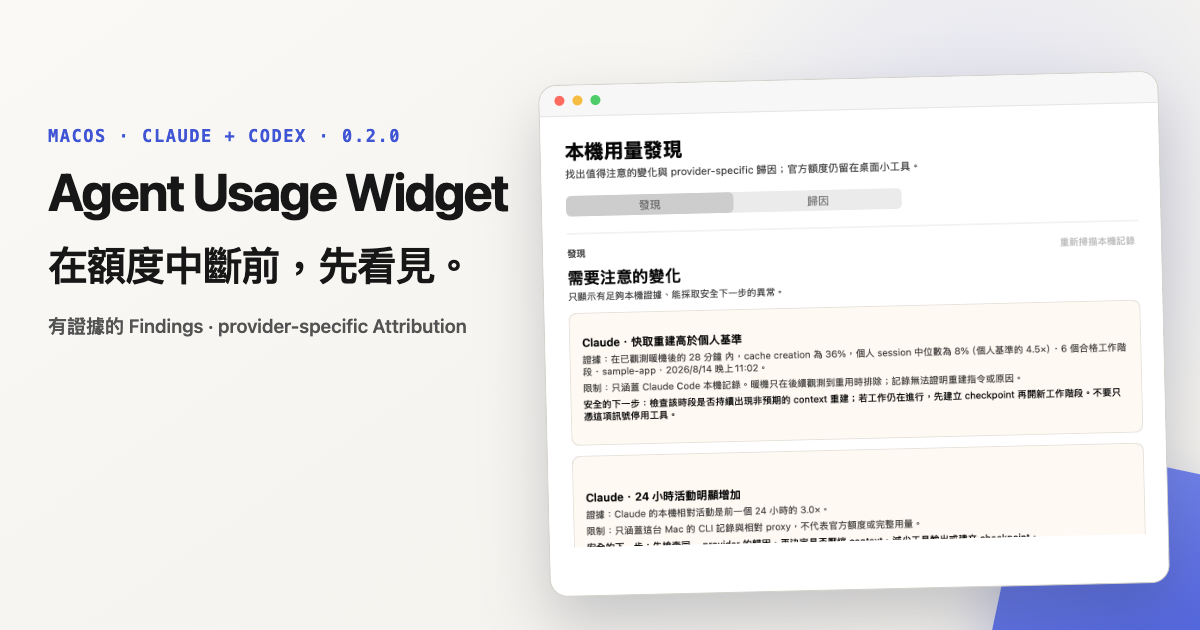
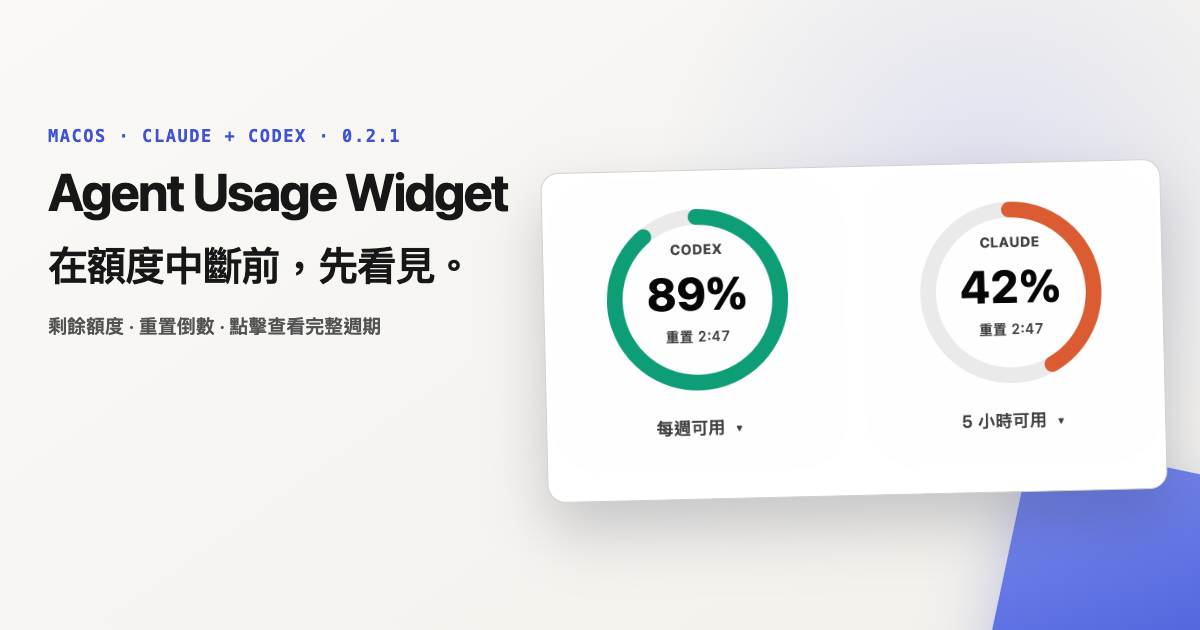
site: publish 0.2.1

diff --git a/index.html b/index.html
@@ -4,9 +4,9 @@
 <meta charset="utf-8">
 <title>Agent Usage Widget — 在額度中斷前先看見</title>
 <meta name="viewport" content="width=device-width, initial-scale=1">
-<meta name="description" content="A native macOS widget for seeing remaining Claude and Codex quota, reset timing, and observable local usage before an interruption.">
+<meta name="description" content="A native macOS widget for seeing remaining Claude and Codex quota and reset timing before an interruption.">
 <meta property="og:title" content="Agent Usage Widget">
-<meta property="og:description" content="See remaining Claude and Codex quota, reset timing, and observable local usage before an interruption.">
+<meta property="og:description" content="See remaining Claude and Codex quota and reset timing before an interruption.">
 <meta property="og:type" content="website">
 <meta property="og:image" content="https://estellacoding.github.io/agent-usage-widget-releases/assets/og.png">
 <meta property="og:image:width" content="1200">
@@ -275,6 +275,12 @@
   }
   .window-bar i { width: 0.62rem; height: 0.62rem; border-radius: 50%; background: #d8d8d8; }
   .window-shell img { width: 100%; height: auto; }
+  .quota-card-shell {
+    overflow: visible;
+    border: 0;
+    background: transparent;
+    box-shadow: none;
+  }
   .shot-caption { margin-top: 0.85rem; color: var(--quiet); font-size: 0.76rem; text-align: center; }
 
   .trust-strip { border-block: 1px solid var(--line); background: var(--surface); }
@@ -411,6 +417,7 @@
     .trust-item:nth-child(2) { border-right: 0; }
     .trust-item:nth-child(-n+2) { border-bottom: 1px solid var(--line); }
     .window-shell { border-radius: var(--radius-sm); }
+    .quota-card-shell { border-radius: 0; }
     .window-bar { height: 1.7rem; }
   }
 
@@ -457,12 +464,12 @@
           <span lang="en">See the limit <strong>before it interrupts you.</strong></span>
         </h1>
         <p class="hero-lede">
-          <span lang="zh-Hant">把 Claude 與 Codex 的剩餘額度、重置時間，以及有證據的本機異常與歸因，放在安靜的 macOS 原生工具裡。</span>
-          <span lang="en">Keep remaining Claude and Codex quota, reset timing, and evidence-backed local findings in one quiet native macOS utility.</span>
+          <span lang="zh-Hant">把 Claude 與 Codex 的剩餘額度與重置時間，放在安靜、可點擊的 macOS 原生卡片裡。</span>
+          <span lang="en">Keep remaining Claude and Codex quota and reset timing in quiet, clickable native macOS cards.</span>
         </p>
         <div class="actions">
-          <a class="button button--primary" href="https://github.com/estellacoding/agent-usage-widget-releases/releases/latest/download/AgentUsageWidget-0.2.0-arm64.dmg">
-            <span lang="zh-Hant">下載 0.2.0 .dmg</span><span lang="en">Download 0.2.0 .dmg</span>
+          <a class="button button--primary" href="https://github.com/estellacoding/agent-usage-widget-releases/releases/latest/download/AgentUsageWidget-0.2.1-arm64.dmg">
+            <span lang="zh-Hant">下載 0.2.1 .dmg</span><span lang="en">Download 0.2.1 .dmg</span>
           </a>
           <a class="button" href="#privacy"><span lang="zh-Hant">了解資料處理</span><span lang="en">How data is handled</span></a>
         </div>
@@ -473,10 +480,9 @@
       </div>
 
       <figure class="hero-shot">
-        <div class="window-shell">
-          <div class="window-bar" aria-hidden="true"><i></i><i></i><i></i></div>
-          <img lang="zh-Hant" src="assets/detail-findings-zh.png" width="1440" height="1040" alt="Agent Usage Widget 本機用量發現，顯示高於個人基準的快取重建範例">
-          <img lang="en" src="assets/detail-findings-en.png" width="1440" height="1040" alt="Agent Usage Widget local usage findings showing a sample cache rebuild anomaly">
+        <div class="window-shell quota-card-shell">
+          <img lang="zh-Hant" src="assets/quota-cards-zh.png" width="712" height="352" alt="Agent Usage Widget 的 Codex 與 Claude 剩餘額度卡片">
+          <img lang="en" src="assets/quota-cards-en.png" width="712" height="352" alt="Agent Usage Widget Codex and Claude remaining-quota cards">
         </div>
         <figcaption class="shot-caption">
           <span lang="zh-Hant">正式 AppKit 畫面 · 固定範例資料，不含私人紀錄</span>
@@ -500,29 +506,29 @@
       <div class="preview-head">
         <div class="stack reading">
           <p class="eyebrow"><span lang="zh-Hant">真實產品畫面</span><span lang="en">The real product</span></p>
-          <h2><span lang="zh-Hant">一眼看額度，需要時理解本機活動。</span><span lang="en">Glance at quota. Understand local activity when needed.</span></h2>
+          <h2><span lang="zh-Hant">一眼看額度，點一下看完整週期。</span><span lang="en">Glance at quota. Click for every window.</span></h2>
           <p class="section-lede">
-            <span lang="zh-Hant">桌面卡只保留剩餘量、倒數與新鮮度；Findings 只提出有足夠證據的異常，Attribution 再把 Claude 與 Codex 分開解釋。</span>
-            <span lang="en">The desktop glance stays focused on remaining quota, countdowns, and freshness. Findings surface only evidence-backed anomalies; Attribution explains Claude and Codex separately.</span>
+            <span lang="zh-Hant">桌面卡只保留剩餘量與重置倒數；點擊任一卡片，即可在卡片下方查看 5 小時、每週及模型限定週額度。</span>
+            <span lang="en">Desktop cards keep remaining quota and reset countdowns in view. Click either card to open 5-hour, weekly, and model-scoped weekly details directly below.</span>
           </p>
         </div>
         <div class="preview-tabs" role="tablist" aria-label="Product screenshots">
-          <button id="preview-findings" type="button" role="tab" data-preview="findings" aria-controls="product-preview" aria-selected="true" tabindex="0"><span lang="zh-Hant">發現</span><span lang="en">Findings</span></button>
-          <button id="preview-attribution" type="button" role="tab" data-preview="attribution" aria-controls="product-preview" aria-selected="false" tabindex="-1"><span lang="zh-Hant">歸因</span><span lang="en">Attribution</span></button>
+          <button id="preview-cards" type="button" role="tab" data-preview="cards" aria-controls="product-preview" aria-selected="true" tabindex="0"><span lang="zh-Hant">額度卡</span><span lang="en">Quota cards</span></button>
+          <button id="preview-details" type="button" role="tab" data-preview="details" aria-controls="product-preview" aria-selected="false" tabindex="-1"><span lang="zh-Hant">詳細額度</span><span lang="en">Quota details</span></button>
         </div>
       </div>
 
-      <div class="product-stage" id="product-preview" role="tabpanel" aria-labelledby="preview-findings" aria-live="polite">
+      <div class="product-stage" id="product-preview" role="tabpanel" aria-labelledby="preview-cards" aria-live="polite">
         <div class="window-shell">
           <div class="window-bar" aria-hidden="true"><i></i><i></i><i></i></div>
-          <img lang="zh-Hant" data-preview-shot="findings" src="assets/detail-findings-zh.png" width="1440" height="1040" alt="繁中本機用量發現，使用固定範例資料">
-          <img lang="zh-Hant" data-preview-shot="attribution" src="assets/detail-attribution-zh.png" width="1440" height="1040" alt="繁中 Claude 與 Codex 分區活動歸因，使用固定範例資料" hidden>
-          <img lang="en" data-preview-shot="findings" src="assets/detail-findings-en.png" width="1440" height="1040" alt="English local usage findings using fixed sample data">
-          <img lang="en" data-preview-shot="attribution" src="assets/detail-attribution-en.png" width="1440" height="1040" alt="English provider-specific Claude and Codex attribution using fixed sample data" hidden>
+          <img lang="zh-Hant" data-preview-shot="cards" src="assets/quota-cards-zh.png" width="712" height="352" alt="繁中 Codex 與 Claude 剩餘額度卡片，使用固定範例資料">
+          <img lang="zh-Hant" data-preview-shot="details" src="assets/quota-details-zh.png" width="660" height="560" alt="繁中 Claude 詳細額度，包含每週 Fable 額度" hidden>
+          <img lang="en" data-preview-shot="cards" src="assets/quota-cards-en.png" width="712" height="352" alt="English Codex and Claude remaining-quota cards using fixed sample data">
+          <img lang="en" data-preview-shot="details" src="assets/quota-details-en.png" width="660" height="560" alt="English Claude quota details including the Fable weekly limit" hidden>
         </div>
         <p class="product-caption">
-          <span lang="zh-Hant">所有畫面均由正式 <span class="mono">DetailWindowController</span> 與固定合成 report 產生。</span>
-          <span lang="en">Every screen is rendered by the production <span class="mono">DetailWindowController</span> with a fixed synthetic report.</span>
+          <span lang="zh-Hant">所有畫面均由正式 AppKit 額度元件與固定合成資料產生，不含私人紀錄。</span>
+          <span lang="en">Every screen is rendered by the production AppKit quota views with fixed synthetic data and no private records.</span>
         </p>
       </div>
 
@@ -532,12 +538,12 @@
           <div class="stack stack--tight"><h3><span lang="zh-Hant">先知道還剩多少</span><span lang="en">Know what remains</span></h3><p><span lang="zh-Hant">Claude 與 Codex 各視窗都使用同一語意：大數字與進度軌代表剩餘，不把「無限制」畫成錯誤。</span><span lang="en">Every Claude and Codex window uses one meaning: the number and track show what remains, and no-limit plans never look like failures.</span></p></div>
         </article>
         <article class="value-card">
-          <span class="value-number">02 / FINDINGS</span>
-          <div class="stack stack--tight"><h3><span lang="zh-Hant">只提出值得注意的變化</span><span lang="en">Surface changes worth attention</span></h3><p><span lang="zh-Hant">24 小時變化、重工作階段、快取重建、subagent 與工具結果只有在證據門檻成立時才出現，並附限制與安全下一步。</span><span lang="en">24-hour changes, heavy sessions, cache rebuilds, subagents, and tool results appear only when evidence thresholds are met—with limitations and a safe next step.</span></p></div>
+          <span class="value-number">02 / DETAILS</span>
+          <div class="stack stack--tight"><h3><span lang="zh-Hant">點擊後就在卡片下方展開</span><span lang="en">Details open below the cards</span></h3><p><span lang="zh-Hant">不用離開桌面位置即可查看 5 小時、每週與 Claude 模型限定週額度，標題列也保留標準 macOS 間距。</span><span lang="en">See 5-hour, weekly, and Claude model-scoped weekly quota without losing context, with standard macOS title-bar spacing.</span></p></div>
         </article>
         <article class="value-card">
-          <span class="value-number">03 / ATTRIBUTION</span>
-          <div class="stack stack--tight"><h3><span lang="zh-Hant">每個 provider 使用自己的分母</span><span lang="en">Keep each provider in its own denominator</span></h3><p><span lang="zh-Hant">Claude 與 Codex 的專案、模型與工作階段分開計算；Codex 沒有同等工具或 subagent 欄位時保持 unavailable，不補成 0%。</span><span lang="en">Claude and Codex project, model, and session shares stay separate. Missing Codex tool or subagent fields remain unavailable instead of becoming 0%.</span></p></div>
+          <span class="value-number">03 / WINDOWS</span>
+          <div class="stack stack--tight"><h3><span lang="zh-Hant">每個數字都說清楚週期</span><span lang="en">Every number names its window</span></h3><p><span lang="zh-Hant">Claude 的 Fable 額度明確標示為每週；Codex 沒有 5 小時上限時，主卡直接改顯示每週額度。</span><span lang="en">Claude identifies Fable as weekly. When Codex has no 5-hour limit, its main card shows weekly quota instead.</span></p></div>
         </article>
       </div>
     </div>
@@ -547,12 +553,12 @@
     <div class="wrap">
       <div class="stack reading">
         <p class="eyebrow"><span lang="zh-Hant">如何運作</span><span lang="en">How it works</span></p>
-        <h2><span lang="zh-Hant">登入材料留在 native bridge；分析留在本機。</span><span lang="en">Credentials stay in the native bridge. Analysis stays local.</span></h2>
-        <p class="section-lede"><span lang="zh-Hant">官方額度與本機活動分析是兩條分開的資料路徑，不把 token、cookie 或 organization ID 交給分析引擎。</span><span lang="en">Official quota and local activity analysis use separate data paths. Tokens, cookies, and organization IDs never go to the analysis engine.</span></p>
+        <h2><span lang="zh-Hant">登入材料只留在 native bridge。</span><span lang="en">Credentials stay in the native bridge.</span></h2>
+        <p class="section-lede"><span lang="zh-Hant">App 只把通過 schema 驗證的額度百分比與重置時間交給畫面，不把 token、cookie 或 organization ID 寫入額度快取。</span><span lang="en">The app passes only schema-validated quota percentages and reset timing to the UI; tokens, cookies, and organization IDs are never written to the quota cache.</span></p>
       </div>
       <div class="flow">
         <article class="flow-step"><span class="mono">01 · QUOTA</span><h3><span lang="zh-Hant">向服務自己的端點查詢</span><span lang="en">Ask each service directly</span></h3><p><span lang="zh-Hant">Swift bridge 使用既有 Claude Desktop／Codex 登入，只把通過 schema 驗證的百分比與時間交給 UI。</span><span lang="en">The Swift bridge uses existing Claude Desktop and Codex sign-ins, passing only schema-validated percentages and timing to the UI.</span></p></article>
-        <article class="flow-step"><span class="mono">02 · LOCAL</span><h3><span lang="zh-Hant">讀取本機 CLI 記錄</span><span lang="en">Read local CLI records</span></h3><p><span lang="zh-Hant">分析只讀 Claude Code 與 Codex CLI 記錄；Desktop 與 Web 用量不包含在結果裡。</span><span lang="en">Analysis reads Claude Code and Codex CLI records only. Desktop and web usage are excluded from the result.</span></p></article>
+        <article class="flow-step"><span class="mono">02 · NORMALIZE</span><h3><span lang="zh-Hant">只保留額度需要的欄位</span><span lang="en">Keep only quota fields</span></h3><p><span lang="zh-Hant">Native bridge 將回應縮減為剩餘百分比、重置時間、模型標籤與狀態，不把登入材料交給介面。</span><span lang="en">The native bridge reduces responses to remaining percentage, reset timing, model label, and status without exposing credentials to the UI.</span></p></article>
         <article class="flow-step"><span class="mono">03 · STATE</span><h3><span lang="zh-Hant">把不確定性寫在畫面上</span><span lang="en">Show uncertainty in the UI</span></h3><p><span lang="zh-Hant">Live、Cached、Stale、Unavailable 與資料年齡都有文字；服務自己的頁面始終是最終依據。</span><span lang="en">Live, Cached, Stale, Unavailable, and data age are always textual. Provider pages remain authoritative.</span></p></article>
       </div>
     </div>
@@ -566,7 +572,7 @@
         <p class="section-lede"><span lang="zh-Hant">Live 額度仍會連到 Claude／OpenAI 自己的 usage endpoint，因此這不是「完全離線」；安全邊界在於登入材料不離開 native bridge。</span><span lang="en">Live quota still connects to Claude and OpenAI usage endpoints, so this is not fully offline. The security boundary is that login material never leaves the native bridge.</span></p>
       </div>
       <div class="privacy-grid">
-        <article class="privacy-card"><h3><span lang="zh-Hant">會讀取與保存</span><span lang="en">Read and retained</span></h3><ul class="privacy-list"><li><span lang="zh-Hant">記憶體中的既有登入材料，用於各服務自己的 usage endpoint</span><span lang="en">Existing login material in memory, for each service's own usage endpoint</span></li><li><span lang="zh-Hant">本機 Claude Code／Codex CLI 記錄，用於 Findings 與 provider-specific Attribution</span><span lang="en">Local Claude Code and Codex CLI records for Findings and provider-specific Attribution</span></li><li><span lang="zh-Hant">快取的非敏感百分比、狀態與時間戳</span><span lang="en">Cached non-sensitive percentages, status, and timestamps</span></li></ul></article>
+        <article class="privacy-card"><h3><span lang="zh-Hant">會讀取與保存</span><span lang="en">Read and retained</span></h3><ul class="privacy-list"><li><span lang="zh-Hant">記憶體中的既有登入材料，用於各服務自己的 usage endpoint</span><span lang="en">Existing login material in memory, for each service's own usage endpoint</span></li><li><span lang="zh-Hant">各服務回傳的額度百分比、重置時間與模型標籤</span><span lang="en">Quota percentages, reset timing, and model labels returned by each service</span></li><li><span lang="zh-Hant">快取的非敏感百分比、狀態與時間戳</span><span lang="en">Cached non-sensitive percentages, status, and timestamps</span></li></ul></article>
         <article class="privacy-card privacy-card--never"><h3><span lang="zh-Hant">絕不交給產品或第三方</span><span lang="en">Never sent to the product or third parties</span></h3><ul class="privacy-list"><li><span lang="zh-Hant">Claude cookie、Keychain secret、organization ID</span><span lang="en">Claude cookies, Keychain secrets, or organization IDs</span></li><li><span lang="zh-Hant">Codex OAuth token 或 account ID</span><span lang="en">Codex OAuth tokens or account IDs</span></li><li><span lang="zh-Hant">本機 session 內容、專案名稱或私人 screenshot</span><span lang="en">Local session content, project names, or private screenshots</span></li></ul></article>
       </div>
       <p class="privacy-note"><span lang="zh-Hant">Claude Keychain 存取可以獨立停用；Codex、Widget 與開機啟動控制仍可使用。</span><span lang="en">Claude Keychain access can be disabled independently while Codex, the Widget, and login-item controls keep working.</span></p>
@@ -578,11 +584,11 @@
       <div class="stack reading">
         <p class="eyebrow"><span lang="zh-Hant">安裝</span><span lang="en">Install</span></p>
         <h2><span lang="zh-Hant">選擇拖曳安裝，或一次完成設定。</span><span lang="en">Drag it in, or complete setup in one pass.</span></h2>
-        <p class="section-lede"><span lang="zh-Hant">兩個安裝檔都是 0.2.0 arm64，內含經審查的 Node runtime；你的 Mac 不需要先裝 Node 或 Xcode。</span><span lang="en">Both 0.2.0 arm64 installers carry the reviewed Node runtime. Your Mac does not need Node or Xcode first.</span></p>
+        <p class="section-lede"><span lang="zh-Hant">兩個安裝檔都是 0.2.1 arm64，內含經審查的 Node runtime；你的 Mac 不需要先裝 Node 或 Xcode。</span><span lang="en">Both 0.2.1 arm64 installers carry the reviewed Node runtime. Your Mac does not need Node or Xcode first.</span></p>
       </div>
       <div class="install-grid">
-        <article class="installer installer--primary"><div class="stack stack--tight"><span class="installer-meta">DMG · 0.2.0 · ARM64</span><h3><span lang="zh-Hant">拖到 Applications</span><span lang="en">Drag to Applications</span></h3><p><span lang="zh-Hant">適合想自己決定何時啟用開機啟動與安裝 Agent Skill 的使用者。</span><span lang="en">Best when you want to choose when to enable launch at login and install the Agent Skill.</span></p></div><a class="button button--primary" href="https://github.com/estellacoding/agent-usage-widget-releases/releases/latest/download/AgentUsageWidget-0.2.0-arm64.dmg"><span lang="zh-Hant">下載 .dmg</span><span lang="en">Download .dmg</span></a></article>
-        <article class="installer"><div class="stack stack--tight"><span class="installer-meta">PKG · 0.2.0 · ARM64</span><h3><span lang="zh-Hant">一併完成本機設定</span><span lang="en">Complete local setup</span></h3><p><span lang="zh-Hant">安裝 App，並設定開機啟動與 Agent Skill；所有內容仍可完整移除。</span><span lang="en">Installs the app, configures launch at login, and adds the Agent Skill. Everything remains fully removable.</span></p></div><a class="button" href="https://github.com/estellacoding/agent-usage-widget-releases/releases/latest/download/AgentUsageWidget-0.2.0-arm64.pkg"><span lang="zh-Hant">下載 .pkg</span><span lang="en">Download .pkg</span></a></article>
+        <article class="installer installer--primary"><div class="stack stack--tight"><span class="installer-meta">DMG · 0.2.1 · ARM64</span><h3><span lang="zh-Hant">拖到 Applications</span><span lang="en">Drag to Applications</span></h3><p><span lang="zh-Hant">適合想自己決定何時啟用開機啟動與安裝 Agent Skill 的使用者。</span><span lang="en">Best when you want to choose when to enable launch at login and install the Agent Skill.</span></p></div><a class="button button--primary" href="https://github.com/estellacoding/agent-usage-widget-releases/releases/latest/download/AgentUsageWidget-0.2.1-arm64.dmg"><span lang="zh-Hant">下載 .dmg</span><span lang="en">Download .dmg</span></a></article>
+        <article class="installer"><div class="stack stack--tight"><span class="installer-meta">PKG · 0.2.1 · ARM64</span><h3><span lang="zh-Hant">一併完成本機設定</span><span lang="en">Complete local setup</span></h3><p><span lang="zh-Hant">安裝 App，並設定開機啟動與 Agent Skill；所有內容仍可完整移除。</span><span lang="en">Installs the app, configures launch at login, and adds the Agent Skill. Everything remains fully removable.</span></p></div><a class="button" href="https://github.com/estellacoding/agent-usage-widget-releases/releases/latest/download/AgentUsageWidget-0.2.1-arm64.pkg"><span lang="zh-Hant">下載 .pkg</span><span lang="en">Download .pkg</span></a></article>
       </div>
       <aside class="gatekeeper"><h3><span lang="zh-Hant">第一次開啟：正常通過 Gatekeeper</span><span lang="en">First launch: verified by Gatekeeper</span></h3><p><span lang="zh-Hant">DMG 與 PKG 都使用 Developer ID 簽章，並已由 Apple 公證與附加票據；不需要繞過 macOS 安全性設定。</span><span lang="en">Both the DMG and PKG are Developer ID signed, Apple-notarized, and stapled. No macOS security bypass is required.</span></p><ol><li><span lang="zh-Hant">下載後照上方方式安裝並正常開啟 App。</span><span lang="en">Download, install using either option above, and open the app normally.</span></li><li><span lang="zh-Hant">macOS 會用 Developer ID 與公證票據驗證完整性。</span><span lang="en">macOS verifies integrity using the Developer ID signature and notarization ticket.</span></li><li><span lang="zh-Hant">若系統仍顯示無法驗證或檔案損壞，請勿繞過警告；重新下載並核對 release checksum。</span><span lang="en">If macOS still reports an unverifiable or damaged file, do not bypass the warning; re-download it and verify the release checksum.</span></li></ol></aside>
 
@@ -605,7 +611,7 @@
 
 <footer>
   <div class="wrap footer-grid">
-    <div class="stack stack--tight"><strong>Agent Usage Widget 0.2.0</strong><p class="footer-copy"><span lang="zh-Hant">macOS 13+ · Apple Silicon · Developer ID 簽章、Apple 已公證。非 Anthropic、OpenAI 或 GitHub 官方工具，也與三者無關。額度數字僅供參考。</span><span lang="en">macOS 13+ · Apple Silicon · Developer ID signed and Apple-notarized. Not an official Anthropic, OpenAI, or GitHub tool and not affiliated with them. Quota values are informational.</span></p></div>
+    <div class="stack stack--tight"><strong>Agent Usage Widget 0.2.1</strong><p class="footer-copy"><span lang="zh-Hant">macOS 13+ · Apple Silicon · Developer ID 簽章、Apple 已公證。非 Anthropic、OpenAI 或 GitHub 官方工具，也與三者無關。額度數字僅供參考。</span><span lang="en">macOS 13+ · Apple Silicon · Developer ID signed and Apple-notarized. Not an official Anthropic, OpenAI, or GitHub tool and not affiliated with them. Quota values are informational.</span></p></div>
     <div class="footer-links"><a href="#product"><span lang="zh-Hant">產品</span><span lang="en">Product</span></a><a href="#privacy"><span lang="zh-Hant">隱私</span><span lang="en">Privacy</span></a><a href="#install"><span lang="zh-Hant">安裝</span><span lang="en">Install</span></a><a href="https://github.com/estellacoding/agent-usage-widget-releases/releases"><span lang="zh-Hant">版本紀錄</span><span lang="en">Releases</span></a></div>
   </div>
 </footer>
